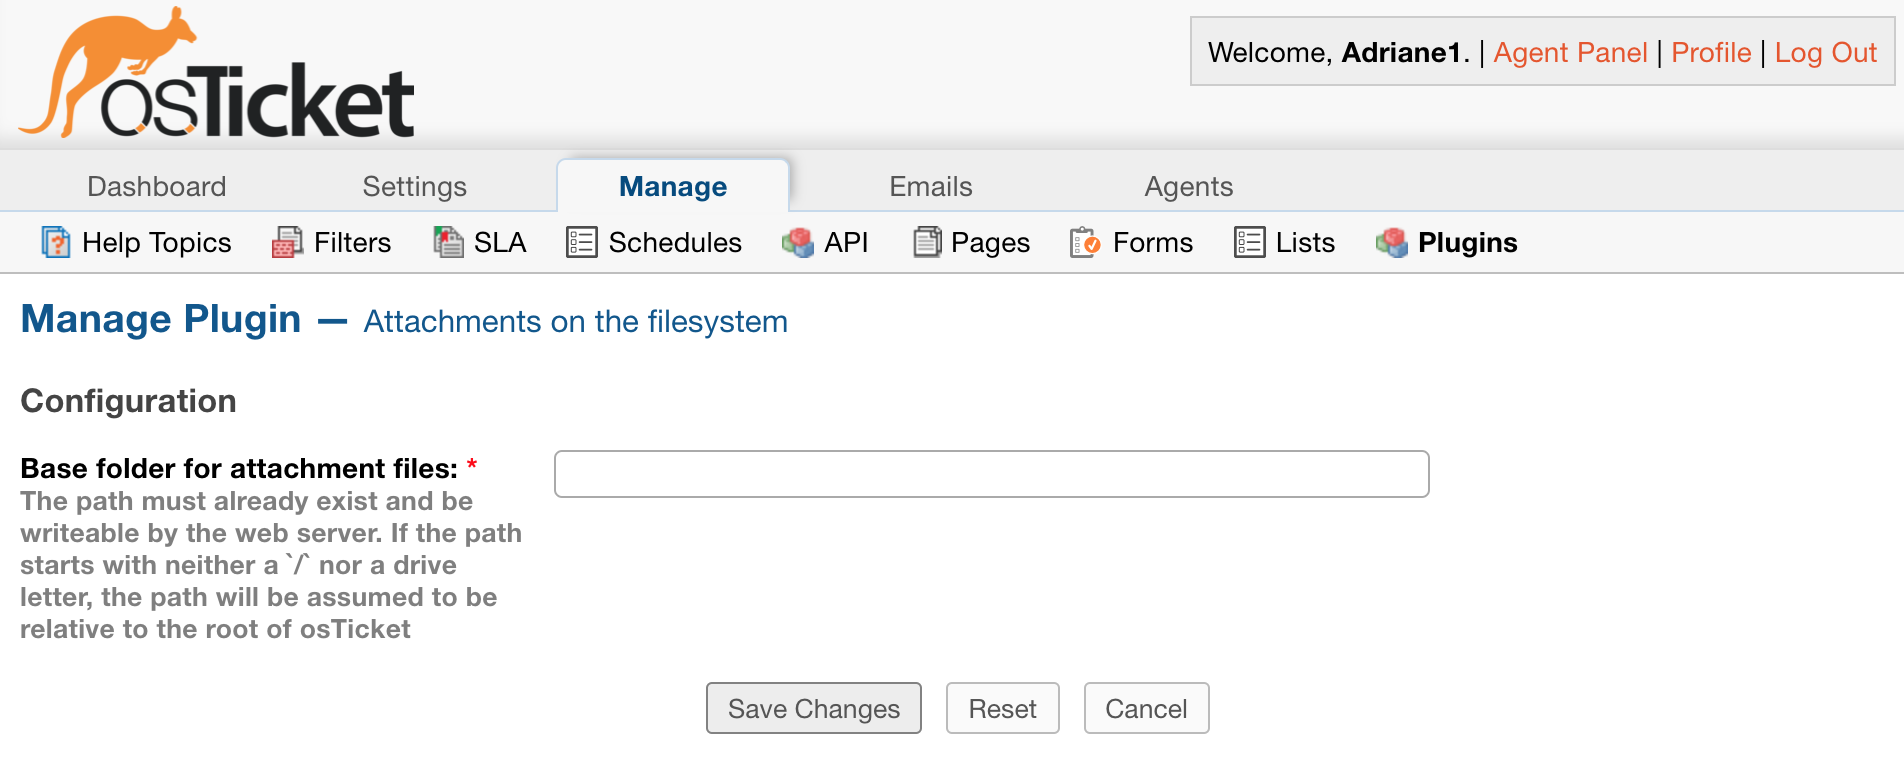
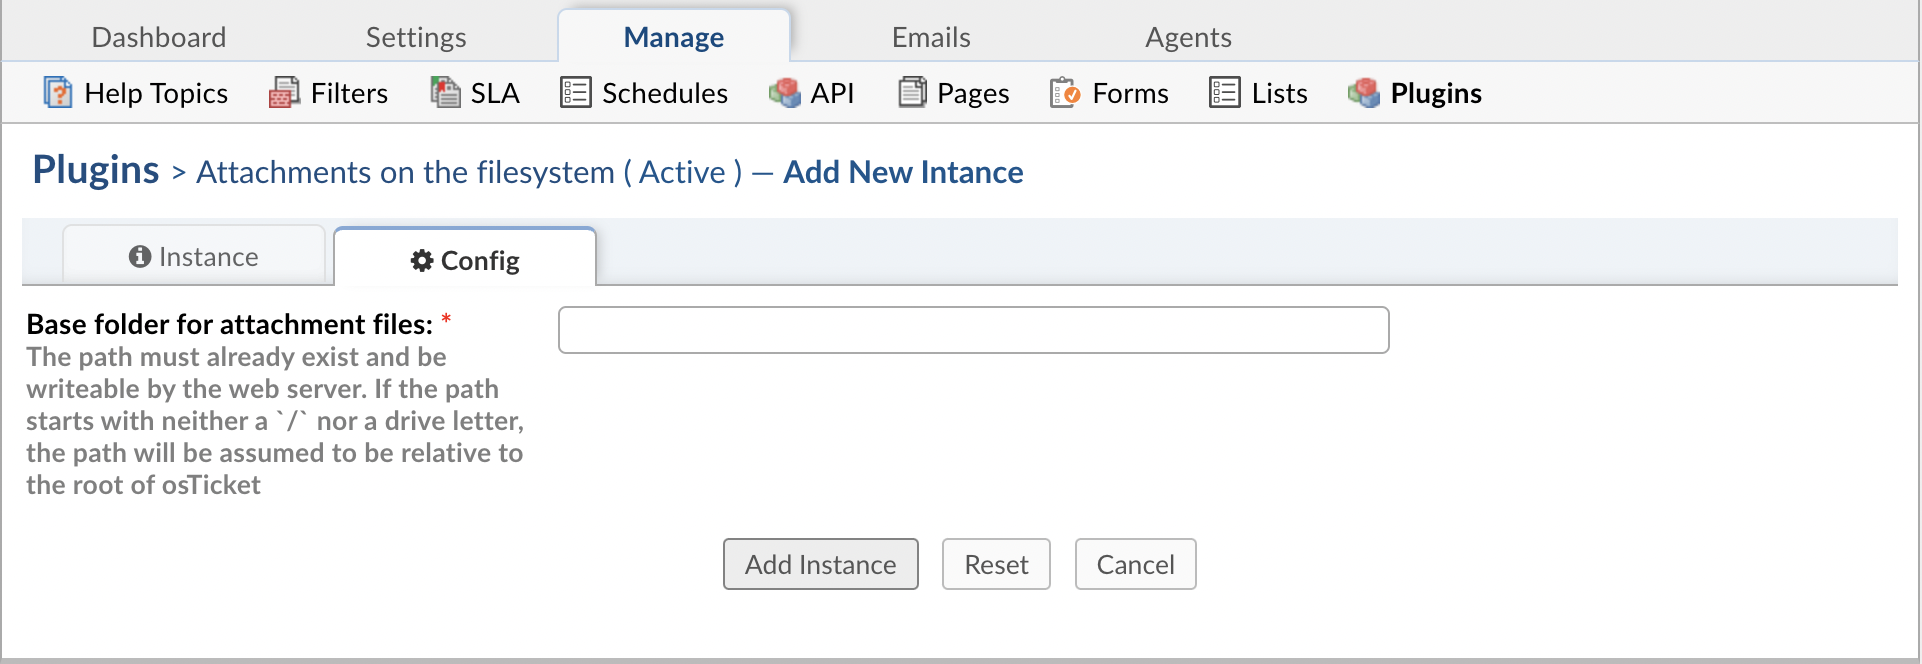
update: FS Docs for Instances
This updates the FS plugin docs to match the new plugin instances.

Changed region(s): [[0.0, 0.0, 1.0, 1.0], [0.3718, 0.8434, 0.6197, 0.9639], [0.2789, 0.0, 0.4338, 0.0904]]

diff --git a/Plugins/Attachments on the Filesystem.rst b/Plugins/Attachments on the Filesystem.rst
@@ -14,17 +14,44 @@ This can be a good option to use for helpdesks that have a heavy load of attachm
         <iframe width="560" height="315" src="https://www.youtube.com/embed/7MV1WV1gF3w" frameborder="0" allow="accelerometer; autoplay; encrypted-media; gyroscope; picture-in-picture" allowfullscreen></iframe>
     </div>
 
+First, you must download the plugin from `our website <https://osticket.com/download>`_. Please make sure you select the appropriate version of osTicket before proceeding to the plugin selection. Once downloaded, upload the plugin to your server and place it in the :code:`include/plugins/` folder. Make sure the plugin has appropriate file permissions and ownership so the webserver can read and execute.
+
+Now you can install the plugin by logging into your helpdesk and navigating to **Admin Panel > Manage > Plugins**. Click **Add New Plugin** and click **Install** next to the desired plugin.
+
+.. image:: ../_static/images/plugins_add_new.png
+  :alt: Add New Plugin
+
+|br|
+
+.. image:: ../_static/images/fs_plugin_install.png
+  :alt: Install Plugin
+
+To enable the plugin click on the name of the plugin in the list of installed plugins, set **Status** to **Active**, and **Save Changes**.
+
+.. image:: ../_static/images/fs_plugin_enable.png
+  :alt: Enable Plugin
+
 Once the plugin has been installed and enabled, it can be configured by going to:
 
-Admin Panel | Manage | Plugins | Attachments on the filesystem
+Admin Panel | Manage | Plugins | Attachments on the filesystem | Instances
 
 .. image:: ../_static/images/afs1.png
   :alt: All Plugins
 
 |br|
 
+.. image:: ../_static/images/fs_plugin_new_instance.png
+  :alt: Attachments on the filesystem Instances
+
+To add a new instance simply click **Add New Instance**. Give the new instance any **Name** you want, set the **Status** to **Active**, and click the **Config** tab to start configuring the instance.
+
+.. image:: ../_static/images/fs_plugin_instance.png
+  :alt: Attachments on the filesystem Instances
+
+|br|
+
 .. image:: ../_static/images/afs2.png
-  :alt: Attachments on the Filesystem Configuration
+  :alt: Attachments on the filesystem Configuration
 
 You will need to provide a folder where the attachments can be stored. You will also need to ensure that the folder can be written to.
 
